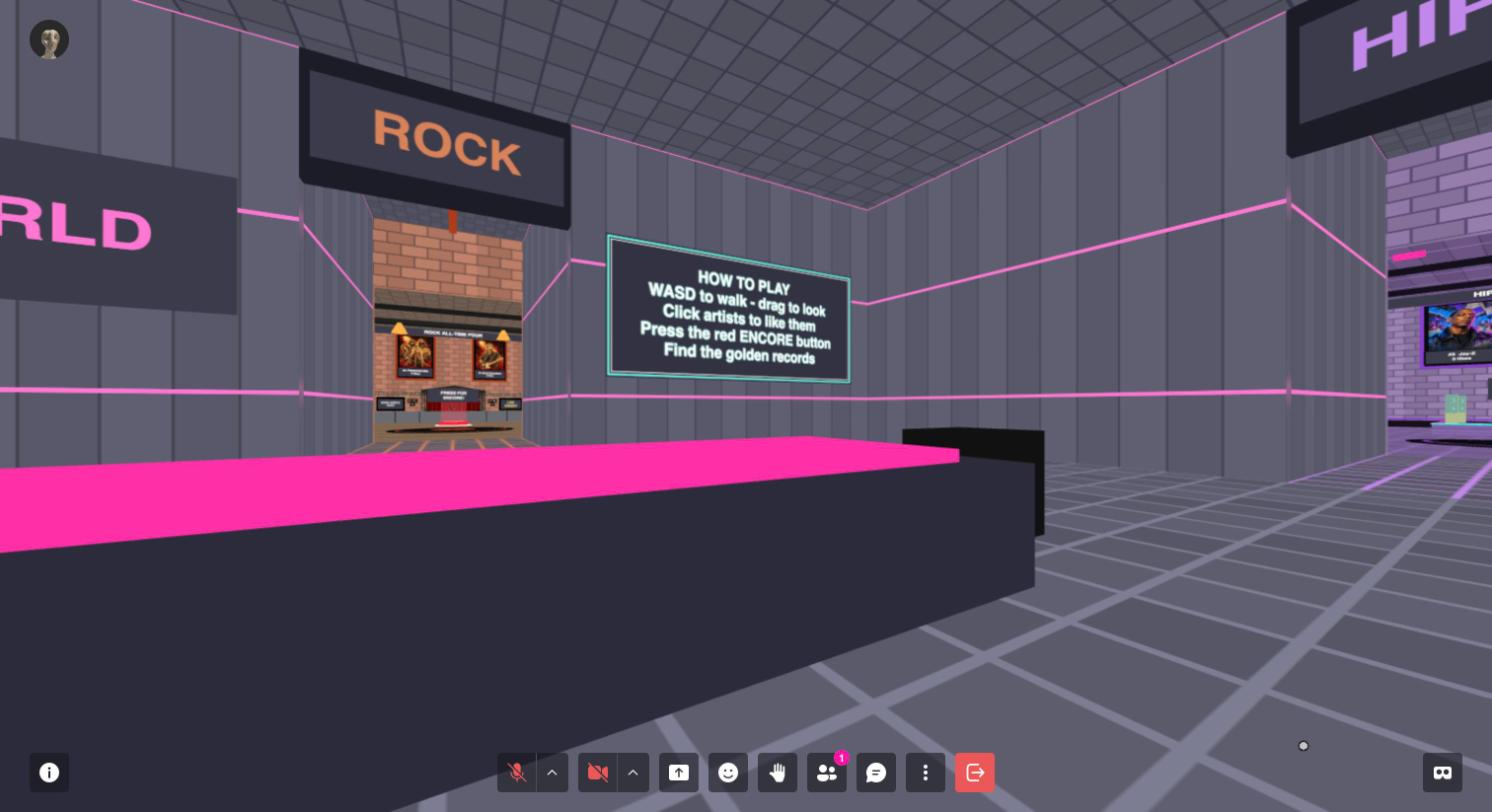
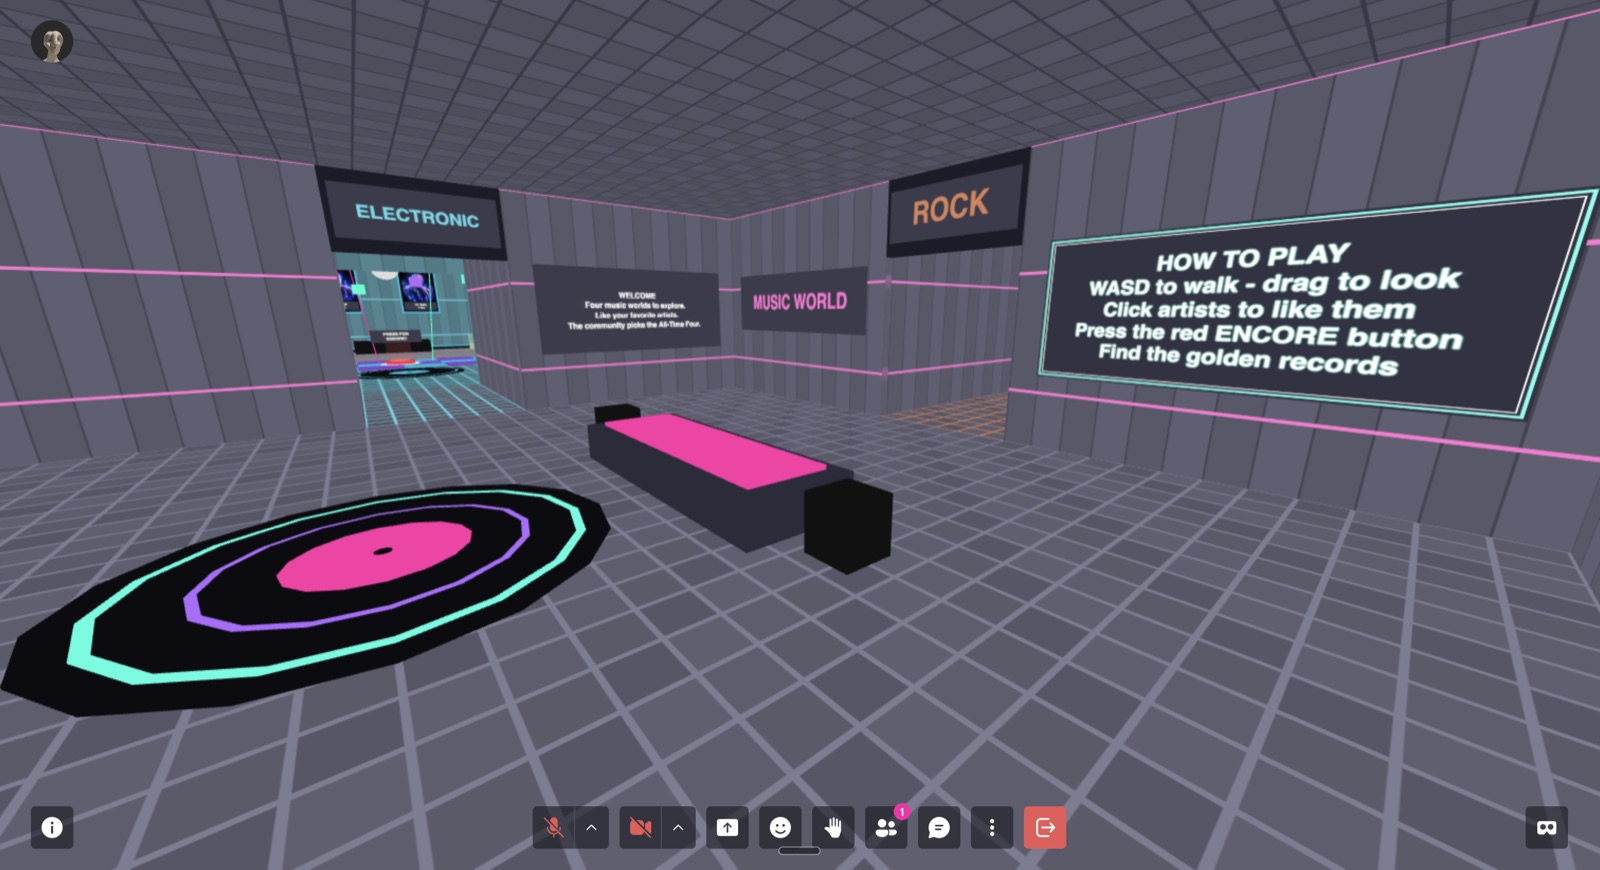
Music World: curated screenshot gallery, drop unused shots

diff --git a/_projects/music-world.md b/_projects/music-world.md
@@ -109,7 +109,16 @@ Visitors do more than vote. A shared Encore button sets off confetti and a light
 
 <h2 id="media" class="reveal">Media</h2>
 
-<figure class="reveal"><img src="/assets/images/music-world/hub.jpg" alt="The Music World hub with the Rock corridor, the How To Play sign and the Hip-Hop entrance" style="width:100%;border-radius:8px"><figcaption>The studio hub: Rock corridor ahead, Hip-Hop on the right, and the How To Play sign.</figcaption></figure>
+<div class="gallery reveal" style="display:grid;grid-template-columns:repeat(auto-fit,minmax(280px,1fr));gap:14px">
+<figure style="margin:0"><img src="/assets/images/music-world/hub.jpg" alt="The studio hub: four corridors, one per genre, and the How To Play sign." loading="lazy" style="width:100%;border-radius:8px;display:block"><figcaption style="font-size:.85em;opacity:.8;margin-top:6px">The studio hub: four corridors, one per genre, and the How To Play sign.</figcaption></figure>
+<figure style="margin:0"><img src="/assets/images/music-world/rock.jpg" alt="Rock room: the All-Time Four frames above the concert stage." loading="lazy" style="width:100%;border-radius:8px;display:block"><figcaption style="font-size:.85em;opacity:.8;margin-top:6px">Rock room: the All-Time Four frames above the concert stage.</figcaption></figure>
+<figure style="margin:0"><img src="/assets/images/music-world/hiphop.jpg" alt="Hip-Hop room: walkable DJ riser, record shop and the red Encore button." loading="lazy" style="width:100%;border-radius:8px;display:block"><figcaption style="font-size:.85em;opacity:.8;margin-top:6px">Hip-Hop room: walkable DJ riser, record shop and the red Encore button.</figcaption></figure>
+<figure style="margin:0"><img src="/assets/images/music-world/electronic.jpg" alt="Electronic room: checkered dance floor, lasers and arcade cabinets." loading="lazy" style="width:100%;border-radius:8px;display:block"><figcaption style="font-size:.85em;opacity:.8;margin-top:6px">Electronic room: checkered dance floor, lasers and arcade cabinets.</figcaption></figure>
+<figure style="margin:0"><img src="/assets/images/music-world/country.jpg" alt="Country room: the saloon, with a bar, longhorn and lounge." loading="lazy" style="width:100%;border-radius:8px;display:block"><figcaption style="font-size:.85em;opacity:.8;margin-top:6px">Country room: the saloon, with a bar, longhorn and lounge.</figcaption></figure>
+<figure style="margin:0"><img src="/assets/images/music-world/country-boards.jpg" alt="The live like boards: every artist in the room, ranked by votes." loading="lazy" style="width:100%;border-radius:8px;display:block"><figcaption style="font-size:.85em;opacity:.8;margin-top:6px">The live like boards: every artist in the room, ranked by votes.</figcaption></figure>
+<figure style="margin:0"><img src="/assets/images/music-world/like.jpg" alt="Click an artist and a toast confirms your like." loading="lazy" style="width:100%;border-radius:8px;display:block"><figcaption style="font-size:.85em;opacity:.8;margin-top:6px">Click an artist and a toast confirms your like.</figcaption></figure>
+<figure style="margin:0"><img src="/assets/images/music-world/encore.jpg" alt="The Encore button fires confetti for everyone in the room." loading="lazy" style="width:100%;border-radius:8px;display:block"><figcaption style="font-size:.85em;opacity:.8;margin-top:6px">The Encore button fires confetti for everyone in the room.</figcaption></figure>
+</div>
 
 <h2 id="code" class="reveal">Code</h2>
 
